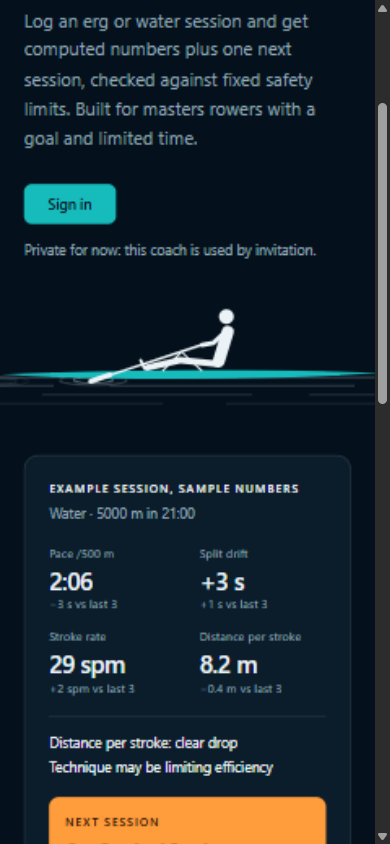
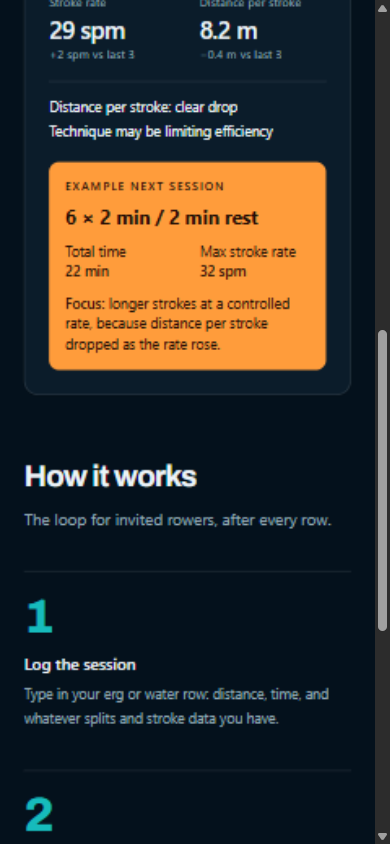
fix(ui-landing-page): Apply implementation review fixes
- src/pages/auth/signin.astro: invitation note linking to / (F1)
- src/pages/index.astro, LandingView.astro: page owns the header and <main> (F3)
- LandingView.astro: example shows 22 min, labelled group, "Example next session" (F5, F7)
- src/layouts/Layout.astro: description matches the page's wording (F6)
- scripts/smoke.mjs: / and /auth/signin must not contain /auth/signup (F8)
- AGENTS.md, states.md, tokens.md, screenshots: corrected docs and ring contrast (F2, F10)
- reviews/impl-review.md, follow-ups/review-fixes.md (F9 deferred), plan.md, change.md

diff --git a/context/changes/ui-landing-page/reviews/impl-review.md b/context/changes/ui-landing-page/reviews/impl-review.md
@@ -1,0 +1,140 @@
+<!-- IMPL-REVIEW-REPORT -->
+
+# Implementation Review: Landing page
+
+- **Plan**: context/changes/ui-landing-page/plan.md
+- **Scope**: Full plan
+- **Reviewed phases**: 1, 2, 3, 4, 5
+- **Date**: 2026-10-31
+- **Verdict**: NEEDS ATTENTION
+- **Findings**: 0 critical, 4 warnings, 6 observations
+
+Coverage note: all five phases were reviewed against `0393b72..origin/main` (`fd70b54`). Rows 2.5 and 5.5 were unchecked at review time, waiting on the owner's production check. CI passed `ci` and `smoke` on PR #8 and on `main`. Re-run locally at review: `astro check` 0 errors, `npm test` 243/243, `npm run build` OK, `node scripts/ui-literals.mjs` 8 files clean, and the grep-based criteria for 1.4, 1.5, 2.1, 2.2, 3.2, 3.3, 4.1, 4.2 and 5.3. The 5.2 break-check was not repeated; it passed during implementation. Nothing was tested in a browser during this review, so the screen-reader points are reasoned from the code.
+
+Checked with no finding: the redirect (exact path, literal target, no loop, no extra Supabase call), no sign-up link on public pages, no stale references to the deleted components, every other product claim on the page against `metrics.ts`, `limits.ts`, `context.ts` and `SessionAnalysis.astro`, and everything under What We're NOT Doing.
+
+## Verdicts
+
+| Dimension           | Verdict |
+| ------------------- | ------- |
+| Plan Adherence      | WARNING |
+| Scope Discipline    | WARNING |
+| Safety & Quality    | WARNING |
+| Architecture        | WARNING |
+| Pattern Consistency | PASS    |
+| Success Criteria    | WARNING |
+
+## Findings
+
+### F1 — Sign-in page is a dead end for anyone without an account
+
+- **Severity**: ⚠ WARNING
+- **Impact**: 🏃 LOW — quick decision; fix is obvious and narrowly scoped
+- **Dimension**: Safety & Quality
+- **Location**: src/pages/auth/signin.astro:14
+- **Detail**: Removing the Sign up prompt left the page with no links at all (`signin.astro` and `SignInForm.tsx` have no `href`). Someone without an account, or redirected here from a protected route without ever seeing the landing page's private note, only gets a login error, with no explanation and no way back to `/`. The plan's removal caused this.
+- **Fix**: Add one static line under the form: "No account? This coach is used by invitation." with a link to `/`. It doesn't link sign-up, so it stays within the `AGENTS.md` rule.
+- **Decision**: FIXED — line under the form linking to `/`
+
+### F2 — Focus ring contrast is logged as 10.05:1 but is painted at 3.30:1
+
+- **Severity**: ⚠ WARNING
+- **Impact**: 🔎 MEDIUM — real tradeoff; pause to reason through it
+- **Dimension**: Safety & Quality
+- **Location**: context/changes/ui-landing-page/tokens.md:59, src/components/ui/button.tsx:8
+- **Detail**: The contrast log measures solid `--ring`, but `button.tsx` paints `focus-visible:ring-ring/50`. Composited on the background that measures 3.30:1. It clears the 3:1 target with little margin, and the hero link has no border, so the ring is its only focus indicator. The automated browser could not draw the ring, so row 4.4 rests only on a manual check. The dashboard change's log has the same mismeasurement.
+- **Fix A ⭐ Recommended**: Correct the log to 3.30:1 and change no colours.
+  - Strength: The record becomes true, it still passes, and `button.tsx` stays as shadcn generated it.
+  - Tradeoff: The margin over 3:1 stays thin.
+  - Confidence: HIGH — calculated from the shipped token values.
+  - Blind spot: The ring has not been seen in a real browser by this review.
+- **Fix B**: Also strengthen the ring in `button.tsx` (for example `ring-ring/80`).
+  - Strength: A clearly visible focus ring on every button in the app.
+  - Tradeoff: Touches a shared component and every view, beyond this change's scope.
+  - Confidence: MED — straightforward, but needs a visual pass across views.
+  - Blind spot: Effect on the destructive variant's own ring classes.
+- **Decision**: FIXED (Fix A) — log corrected to 3.30:1; no colour change
+
+### F3 — `<main>` is inside LandingView, not on the page
+
+- **Severity**: ⚠ WARNING
+- **Impact**: 🏃 LOW — quick decision; fix is obvious and narrowly scoped
+- **Dimension**: Architecture
+- **Location**: src/components/landing/LandingView.astro:51
+- **Detail**: The plan says "`<main>` on the page". `dashboard.astro:41` owns it at page level, a pattern set by finding F2 of the dashboard review. This view repeats the same mistake. The live page is correct today, but rendering the view in the kitchen sink would nest landmarks.
+- **Fix**: Keep the component's root as a `<div>` and render `<main>` around the content from `src/pages/index.astro`. The view's `<header>` needs to stay outside `<main>`, so split it or pass the content through a slot.
+- **Decision**: FIXED — `index.astro` owns the header and `<main>`; the view's root is a `<div>`
+
+### F4 — Progress isn't finished: open rows, uncommitted updates, and hashes off main
+
+- **Severity**: ⚠ WARNING
+- **Impact**: 🏃 LOW — quick decision; fix is obvious and narrowly scoped
+- **Dimension**: Success Criteria
+- **Location**: context/changes/ui-landing-page/plan.md (`## Progress`)
+- **Detail**: Rows 2.5 and 5.5 need the owner's production check. Row 4.4 was checked from a "commit, push and merge" message, without an explicit report that the ring was seen. The Phase 4 and 5 hash updates and row 5.4 are uncommitted. The recorded hashes (`6d1fcca`, `6c9c47a`, `0707969`, `e2ae69b`, `f3d220d`) aren't on `main`, because the PRs were squash-merged.
+- **Fix**: Confirm 2.5, 4.4 and 5.5 on production, land the close-out through a PR, then run `/10x-archive` from `main` so it can repoint the hashes to `5053afc`, `718bd5e`, `3c805d6` and `fd70b54`.
+- **Decision**: PENDING — fix chosen: owner confirms 2.5, 4.4 and 5.5 on production, then close-out and archive from `main`
+
+### F5 — Example's "24 min" doesn't quite follow the product's definition
+
+- **Severity**: 💬 OBSERVATION
+- **Impact**: 🏃 LOW — quick decision; fix is obvious and narrowly scoped
+- **Dimension**: Plan Adherence
+- **Location**: src/components/landing/LandingView.astro:20
+- **Detail**: 24 min is 6 × (2 + 2), which counts a rest after the last piece and no warm-up. `schema.ts:28` defines total time as "work plus rest, including warm-up and cool-down". A rower would notice, and the source comment says the numbers agree with the product's rules. It is not a false claim, since a real suggestion could say this.
+- **Fix**: Change the sample to 22 min, which is six pieces with five rests between them. A longer figure with warm-up could break the product's +10% volume limit for a session of about 21 minutes.
+- **Decision**: FIXED — example shows 22 min
+
+### F6 — Landing description is served on every page
+
+- **Severity**: 💬 OBSERVATION
+- **Impact**: 🏃 LOW — quick decision; fix is obvious and narrowly scoped
+- **Dimension**: Plan Adherence
+- **Location**: src/layouts/Layout.astro:12-14
+- **Detail**: No page passes `description`, so every page, including `/auth/signin`, gets the default. "One safe next session" is also a stronger claim than the page's "checked against fixed safety limits". The plan asked for this default, so this is a plan-level nit.
+- **Fix**: Reword the default to match the page: "...and get one next session, checked against fixed safety limits."
+- **Decision**: FIXED — default description matches the page's wording
+
+### F7 — Example and steps could be clearer to screen readers
+
+- **Severity**: 💬 OBSERVATION
+- **Impact**: 🏃 LOW — quick decision; fix is obvious and narrowly scoped
+- **Dimension**: Safety & Quality
+- **Location**: src/components/landing/LandingView.astro:72, :97, :122
+- **Detail**: The card isn't a labelled group, so someone jumping straight to the "Next session" heading hears invented numbers with no example cue. Separately, Safari with VoiceOver can drop list semantics when list markers are removed, and the visible step numerals are `aria-hidden`, so the numbering could disappear. That browser behaviour is known but untested here.
+- **Fix**: Add `role="group"` with `aria-labelledby` to the card, rename the heading "Example next session", and add `role="list"` to the `<ol>`.
+- **Decision**: PARTLY FIXED — card is a labelled group and its heading says "Example next session". `role="list"` dropped: the repo's `no-redundant-roles` lint rule rejects it, so the Safari list-semantics risk stays, untested
+
+### F8 — Nothing automatically enforces "no public sign-up link"
+
+- **Severity**: 💬 OBSERVATION
+- **Impact**: 🏃 LOW — quick decision; fix is obvious and narrowly scoped
+- **Dimension**: Success Criteria
+- **Location**: scripts/smoke.mjs:75
+- **Detail**: The home smoke steps only check status, so any 200 passes. The product decision that public pages don't link sign-up is held only by a rule in `AGENTS.md`.
+- **Fix**: Add an `html` check to the home step and to a new `/auth/signin` step: the text must not include `/auth/signup`.
+- **Decision**: FIXED — smoke checks `/` and `/auth/signin` for `/auth/signup`; first runs in CI
+
+### F9 — No cache headers or auth timeout on the session paths
+
+- **Severity**: 💬 OBSERVATION
+- **Impact**: 🔎 MEDIUM — real tradeoff; pause to reason through it
+- **Dimension**: Safety & Quality
+- **Location**: src/lib/supabase.ts:14, src/middleware.ts:10-13
+- **Detail**: Pre-existing, and now more relevant because `/` varies by session. `setAll` discards the no-store headers `@supabase/ssr` provides, and the repo sets no `Cache-Control`. The risk is low today: a 302 isn't cached without explicit freshness, and nothing in the repo tells Cloudflare to cache HTML. Zone settings can't be seen from the repo. `getUser` also has no timeout, and its errors are ignored, so a slow Supabase stalls signed-in visits and an error shows a signed-in rower the landing page with nothing logged. Anonymous visitors make no network call.
+- **Fix**: Open a separate change: apply the `setAll` headers, set `Cache-Control: private, no-store` on the redirect, log non-session errors, and consider a fetch timeout.
+  - Strength: Closes a class of problem across every route, with its own review.
+  - Tradeoff: More work than this change's scope, for a risk that is low today.
+  - Confidence: MED — read from the code and library source, not reproduced.
+  - Blind spot: Cloudflare zone cache settings.
+- **Decision**: DEFERRED — recorded in `follow-ups/review-fixes.md` for a separate change
+
+### F10 — Small inaccuracies in the change's docs
+
+- **Severity**: 💬 OBSERVATION
+- **Impact**: 🏃 LOW — quick decision; fix is obvious and narrowly scoped
+- **Dimension**: Scope Discipline
+- **Location**: context/changes/ui-landing-page/states.md:8-9, context/changes/ui-landing-page/tokens.md:29, :37-43, AGENTS.md:42
+- **Detail**: `states.md` marks hover and focus as "Shown" though its own text says they weren't captured, and it names `accent` for the header hover when dark mode likely uses `input/50`. `tokens.md` says `font-display` is for headlines only, but the name and the unplanned step numerals also use it, and its token list omits `input` and `accent-foreground`. `AGENTS.md:42` says the kitchen sink shows "every token and component", which `font-display` and the landing view break. The two desktop screenshots look blurry at 1280 × 900.
+- **Fix**: Correct those lines: mark hover and focus "Reasoned from classes", widen the `font-display` rule to "landing page display text", add the two tokens, and reword `AGENTS.md:42`. Retake the desktop screenshots if you want them sharp.
+- **Decision**: FIXED — docs corrected; screenshots retaken, desktop ones still blurry from the capture tool

diff --git a/context/changes/ui-landing-page/states.md b/context/changes/ui-landing-page/states.md
@@ -2,15 +2,15 @@
 
 The page is static and server-rendered, with no data loading, forms or client JavaScript, so it has one real state. Measured on 2026-10-31 against the production build (`npm run preview`). Signed-in visitors never see this page: the middleware redirects them to `/dashboard`.
 
-| State         | Status | Evidence or reason                                                                                                                                                                                                                |
-| ------------- | ------ | --------------------------------------------------------------------------------------------------------------------------------------------------------------------------------------------------------------------------------- |
-| default       | Shown  | `screenshots/landing-desktop-1280-top.png`, `landing-desktop-1280-lower.png`, `landing-mobile-390-top.png`, `landing-mobile-390-lower.png`                                                                                        |
-| hover         | Shown  | The two Sign in links use `buttonVariants`, so hover comes from tokens: `primary/90` on the hero link, `accent` on the header link. Not captured in a screenshot.                                                                 |
-| focus-visible | Shown  | Both Sign in links carry the `--ring` classes from `button.tsx`, and Tab moves between them in order. The automated browser has no window focus and does not draw the ring, so the visible ring is a manual check (Progress 4.4). |
-| disabled      | N/A    | The page has no disabled controls.                                                                                                                                                                                                |
-| error         | N/A    | The page loads no data and has no form. Sign-in errors stay on `/auth/signin`.                                                                                                                                                    |
-| empty         | N/A    | The content is static, so there is no data to be empty.                                                                                                                                                                           |
-| loading       | N/A    | Server-rendered with no client fetch. Archivo uses `font-display: swap`; measured layout shift on load was 0 in this run, with the font served locally.                                                                           |
+| State         | Status                | Evidence or reason                                                                                                                                                                                                                |
+| ------------- | --------------------- | --------------------------------------------------------------------------------------------------------------------------------------------------------------------------------------------------------------------------------- |
+| default       | Shown                 | `screenshots/landing-desktop-1280-top.png`, `landing-desktop-1280-lower.png`, `landing-mobile-390-top.png`, `landing-mobile-390-lower.png`                                                                                        |
+| hover         | Reasoned from classes | The two Sign in links use `buttonVariants`, so hover comes from tokens: `primary/90` on the hero link; `accent`, or `input/50` in the shipped dark theme, on the header link. Not captured in a screenshot.                       |
+| focus-visible | Reasoned from classes | Both Sign in links carry the `--ring` classes from `button.tsx`, and Tab moves between them in order. The automated browser has no window focus and does not draw the ring, so the visible ring is a manual check (Progress 4.4). |
+| disabled      | N/A                   | The page has no disabled controls.                                                                                                                                                                                                |
+| error         | N/A                   | The page loads no data and has no form. Sign-in errors stay on `/auth/signin`.                                                                                                                                                    |
+| empty         | N/A                   | The content is static, so there is no data to be empty.                                                                                                                                                                           |
+| loading       | N/A                   | Server-rendered with no client fetch. Archivo uses `font-display: swap`; measured layout shift on load was 0 in this run, with the font served locally.                                                                           |
 
 ## Other measurements
 

diff --git a/context/changes/ui-landing-page/tokens.md b/context/changes/ui-landing-page/tokens.md
@@ -26,8 +26,7 @@ It is not theme-dependent, so `.dark` doesn't override it.
 
 ### Usage rule
 
-Use `font-display` for landing headlines only. Don't apply it to body text or to app views, and don't
-hardcode the font name anywhere else.
+Use `font-display` for landing page display text only: headlines, the product name and the step numerals. Don't apply it to body text or to app views, and don't hardcode the font name anywhere else.
 
 ## Colour tokens used
 
@@ -36,6 +35,7 @@ The page uses these existing tokens and adds no colours. Values and the rules be
 
 - `background`, `foreground`
 - `card`, `card-foreground`
+- `accent-foreground`, `input`: the header Sign in link, through `button.tsx`
 - `muted-foreground`
 - `primary`, `primary-foreground`
 - `border`
@@ -44,7 +44,7 @@ The page uses these existing tokens and adds no colours. Values and the rules be
 
 ## Contrast log (measured 2026-10-31)
 
-Target: text pairs ≥ 4.5:1 (WCAG AA); ring vs background ≥ 3:1. Dark theme only, since that is the shipped theme. Measured from the `.dark` values in `src/styles/global.css` (oklch → sRGB → WCAG relative luminance). No values needed changing.
+Target: text pairs ≥ 4.5:1 (WCAG AA); ring vs background ≥ 3:1. Dark theme only, since that is the shipped theme. Measured from the `.dark` values in `src/styles/global.css` (oklch → sRGB → WCAG relative luminance). No values needed changing. The focus ring is measured as `button.tsx` paints it (`ring-ring/50`); solid `--ring` would be 10.05:1. The 3.30:1 clears the target with little margin, and the dashboard change's archived log records the solid value.
 
 | Pair                                         | Theme | Target | Measured | Adjustment |
 | -------------------------------------------- | ----- | ------ | -------- | ---------- |
@@ -56,4 +56,4 @@ Target: text pairs ≥ 4.5:1 (WCAG AA); ring vs background ≥ 3:1. Dark theme o
 | primary (step numerals) / background         | dark  | 4.5:1  | 8.10:1   | none       |
 | coach-foreground / coach                     | dark  | 4.5:1  | 8.72:1   | none       |
 | foreground / outline button (header Sign in) | dark  | 4.5:1  | 15.39:1  | none       |
-| ring / background                            | dark  | 3:1    | 10.05:1  | none       |
+| ring at 50% / background (as painted)        | dark  | 3:1    | 3.30:1   | none       |

diff --git a/AGENTS.md b/AGENTS.md
@@ -39,7 +39,7 @@ Rowing Coach AI: rowers log erg and water sessions and get one suggested next se
 - Signed-in pages render `AppNav`.
 - `font-display` (Archivo) is for the landing page only; app pages stay on the system font.
 - `/` is the signed-out landing page; the middleware redirects signed-in visitors to `/dashboard`. Don't link sign-up from public pages: AI coaching is invite-only (`COACH_EMAILS`), so `/auth/signup` is shared by direct link.
-- Kitchen sink at `/dev/kitchen-sink` (dev only) shows every token and component — check it after changing either.
+- Kitchen sink at `/dev/kitchen-sink` (dev only) shows the app's tokens and components — check it after changing either. The landing page and `font-display` aren't in it; check `/` for those.
 - `npm run lint` also runs `scripts/ui-literals.mjs`, a literal scan over an allowlist of migrated files; add a view to that allowlist in the same change that migrates it.
 
 ## Testing

diff --git a/context/changes/ui-landing-page/follow-ups/review-fixes.md b/context/changes/ui-landing-page/follow-ups/review-fixes.md
@@ -1,0 +1,11 @@
+# Follow-ups from the implementation review
+
+## F9: cache headers and auth timeout (open a separate change)
+
+Not fixed in this change. Pre-existing, low risk today, and it applies to every route, so it deserves its own review. Start with `/10x-new`.
+
+- `src/lib/supabase.ts:14`: `setAll` discards the no-store headers `@supabase/ssr` provides. Apply them.
+- `src/middleware.ts:24-26`: set `Cache-Control: private, no-store` on the `/` redirect, since `/` now varies by session.
+- `src/middleware.ts:10-13`: `getUser` has no timeout and its error is ignored, so a slow Supabase stalls signed-in visits and an error shows a signed-in rower the landing page with nothing logged. Log non-session errors and consider a fetch timeout.
+
+Check first: the Cloudflare zone's cache settings, which aren't visible from the repo. A "Cache Everything" rule would raise the risk.

diff --git a/context/changes/ui-landing-page/plan.md b/context/changes/ui-landing-page/plan.md
@@ -409,10 +409,10 @@ Rollback is a revert: no data or settings change. `bg-cosmic` loses one usage he
 
 #### Automated
 
-- [x] 5.1 `node scripts/ui-literals.mjs` exits 0 and reports 8 files clean
-- [x] 5.2 Adding `bg-purple-600` to `LandingView.astro` makes `node scripts/ui-literals.mjs` exit 1 with the file and line (then reverted)
-- [x] 5.3 `AGENTS.md` `## UI` mentions `font-display`
-- [ ] 5.4 `npm run lint` and `npm run smoke` pass in CI on the pull request
+- [x] 5.1 `node scripts/ui-literals.mjs` exits 0 and reports 8 files clean — f3d220d
+- [x] 5.2 Adding `bg-purple-600` to `LandingView.astro` makes `node scripts/ui-literals.mjs` exit 1 with the file and line (then reverted) — f3d220d
+- [x] 5.3 `AGENTS.md` `## UI` mentions `font-display` — f3d220d
+- [x] 5.4 `npm run lint` and `npm run smoke` pass in CI on the pull request — f3d220d
 
 #### Manual
 

diff --git a/context/changes/ui-landing-page/change.md b/context/changes/ui-landing-page/change.md
@@ -1,7 +1,7 @@
 ---
 change_id: ui-landing-page
 title: Ui landing page
-status: implementing
+status: impl_reviewed
 created: 2026-10-14
 updated: 2026-10-31
 archived_at: null
